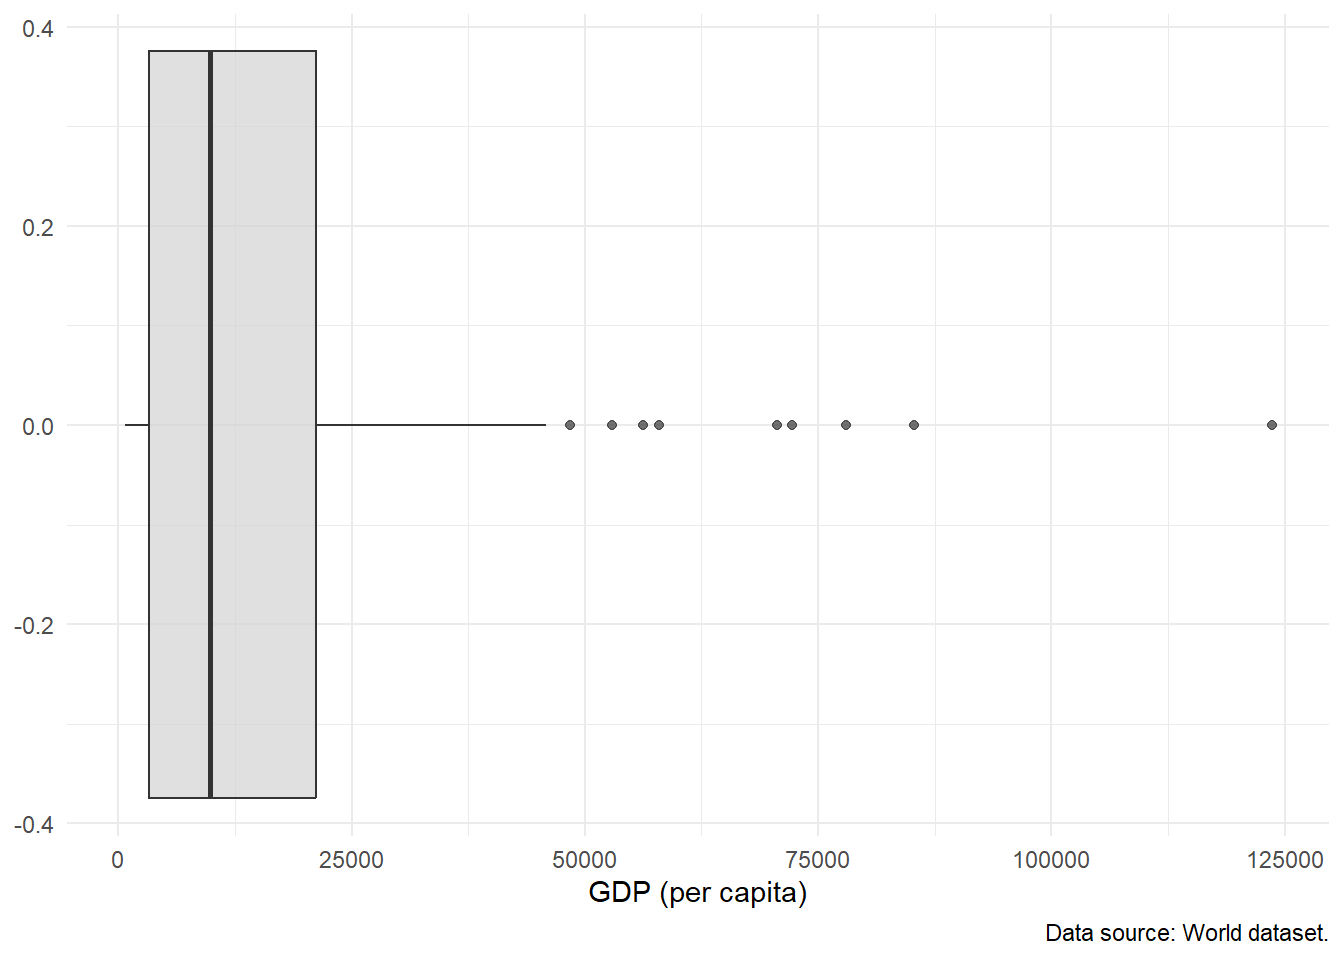
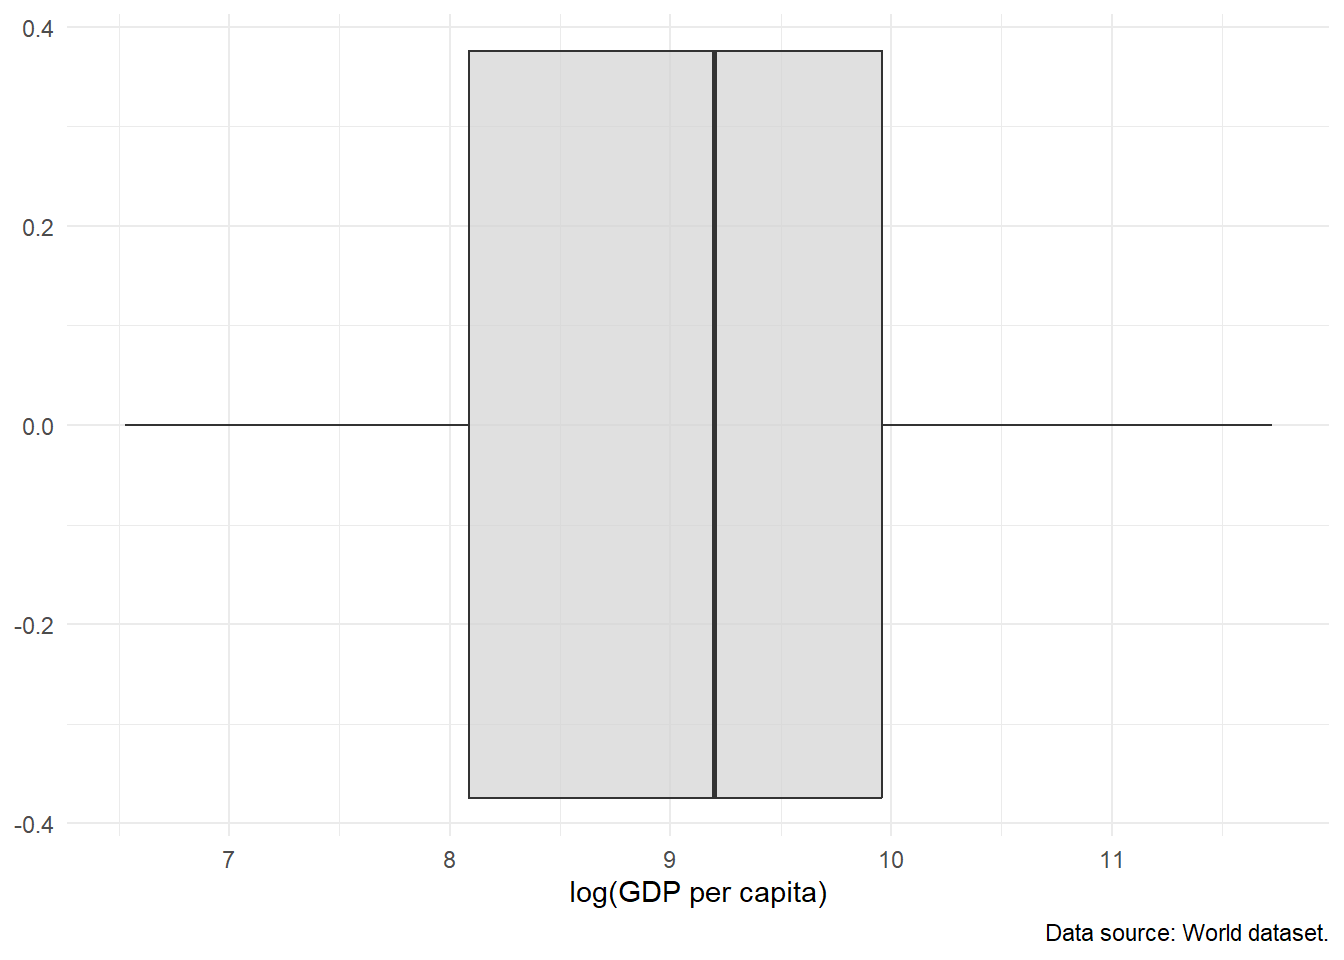
adjust code to include log transformations

diff --git a/_book/docs/08_summarizing_data.html b/_book/docs/08_summarizing_data.html
@@ -154,9 +154,6 @@ gtag('js', new Date());
 gtag('config', 'G-8Z2BLG3VEE', { 'anonymize_ip': true});
 </script>
 
-<script src="../site_libs/kePrint-0.0.1/kePrint.js"></script>
-<link href="../site_libs/lightable-0.0.1/lightable.css" rel="stylesheet">
-
   <script src="https://cdn.jsdelivr.net/npm/mathjax@3/es5/tex-chtml-full.js" type="text/javascript"></script>
 
 <link rel="stylesheet" href="styles.css">
@@ -342,13 +339,13 @@ gtag('config', 'G-8Z2BLG3VEE', { 'anonymize_ip': true});
 <div class="sourceCode cell-code" id="cb3"><pre class="sourceCode r code-with-copy"><code class="sourceCode r"><span id="cb3-1"><a href="#cb3-1" aria-hidden="true" tabindex="-1"></a>world <span class="sc">%&gt;%</span> <span class="co"># grab the world dataset, and do the following</span></span>
 <span id="cb3-2"><a href="#cb3-2" aria-hidden="true" tabindex="-1"></a>    <span class="fu">ggplot</span>() <span class="sc">+</span> <span class="co"># make a ggplot object</span></span>
 <span id="cb3-3"><a href="#cb3-3" aria-hidden="true" tabindex="-1"></a>    <span class="fu">geom_histogram</span>( <span class="co"># make a histogram</span></span>
-<span id="cb3-4"><a href="#cb3-4" aria-hidden="true" tabindex="-1"></a>        <span class="fu">aes</span>(<span class="at">x =</span> gdppc), <span class="co"># use the gdppc variable</span></span>
+<span id="cb3-4"><a href="#cb3-4" aria-hidden="true" tabindex="-1"></a>        <span class="fu">aes</span>(<span class="at">x =</span> <span class="fu">log</span>(gdppc)), <span class="co"># use the gdppc variable</span></span>
 <span id="cb3-5"><a href="#cb3-5" aria-hidden="true" tabindex="-1"></a>        <span class="at">fill =</span> <span class="st">"#D3D3D3"</span>, <span class="co"># fill the bars with light grey</span></span>
 <span id="cb3-6"><a href="#cb3-6" aria-hidden="true" tabindex="-1"></a>        <span class="at">color =</span> <span class="st">"#000000"</span> <span class="co"># make the outlines of the bars black</span></span>
 <span id="cb3-7"><a href="#cb3-7" aria-hidden="true" tabindex="-1"></a>    ) <span class="sc">+</span></span>
 <span id="cb3-8"><a href="#cb3-8" aria-hidden="true" tabindex="-1"></a>    <span class="fu">theme_minimal</span>() <span class="sc">+</span> <span class="co"># change the theme to be prettier</span></span>
 <span id="cb3-9"><a href="#cb3-9" aria-hidden="true" tabindex="-1"></a>    <span class="fu">labs</span>( <span class="co"># clean up the labels</span></span>
-<span id="cb3-10"><a href="#cb3-10" aria-hidden="true" tabindex="-1"></a>        <span class="at">x =</span> <span class="st">"GDP (Per Capita)"</span>, <span class="co"># change the x-axis label to this</span></span>
+<span id="cb3-10"><a href="#cb3-10" aria-hidden="true" tabindex="-1"></a>        <span class="at">x =</span> <span class="st">"log(GDP per capita)"</span>, <span class="co"># change the x-axis label to this</span></span>
 <span id="cb3-11"><a href="#cb3-11" aria-hidden="true" tabindex="-1"></a>        <span class="at">y =</span> <span class="st">"Count of countries"</span>, <span class="co"># change the y-axis label to this</span></span>
 <span id="cb3-12"><a href="#cb3-12" aria-hidden="true" tabindex="-1"></a>        <span class="at">captions =</span> <span class="st">"Data source: World dataset."</span> <span class="co"># add a caption</span></span>
 <span id="cb3-13"><a href="#cb3-13" aria-hidden="true" tabindex="-1"></a>    )</span></code><button title="Copy to Clipboard" class="code-copy-button"><i class="bi"></i></button></pre></div>
@@ -387,13 +384,13 @@ gtag('config', 'G-8Z2BLG3VEE', { 'anonymize_ip': true});
 <div class="sourceCode cell-code" id="cb6"><pre class="sourceCode r code-with-copy"><code class="sourceCode r"><span id="cb6-1"><a href="#cb6-1" aria-hidden="true" tabindex="-1"></a>world <span class="sc">%&gt;%</span> <span class="co"># grab the world dataset</span></span>
 <span id="cb6-2"><a href="#cb6-2" aria-hidden="true" tabindex="-1"></a>    <span class="fu">ggplot</span>() <span class="sc">+</span> <span class="co"># make a ggplot object</span></span>
 <span id="cb6-3"><a href="#cb6-3" aria-hidden="true" tabindex="-1"></a>    <span class="fu">geom_boxplot</span>( <span class="co"># make a geom_boxplot</span></span>
-<span id="cb6-4"><a href="#cb6-4" aria-hidden="true" tabindex="-1"></a>        <span class="fu">aes</span>(<span class="at">x =</span> gdppc), <span class="co"># using the gdppc variable</span></span>
+<span id="cb6-4"><a href="#cb6-4" aria-hidden="true" tabindex="-1"></a>        <span class="fu">aes</span>(<span class="at">x =</span> <span class="fu">log</span>(gdppc)), <span class="co"># using the gdppc variable</span></span>
 <span id="cb6-5"><a href="#cb6-5" aria-hidden="true" tabindex="-1"></a>        <span class="at">fill =</span> <span class="st">"#D3D3D3"</span>, <span class="co"># fill it with a light grey color</span></span>
 <span id="cb6-6"><a href="#cb6-6" aria-hidden="true" tabindex="-1"></a>        <span class="at">alpha =</span> <span class="fl">0.7</span> <span class="co"># don't make the color solid</span></span>
 <span id="cb6-7"><a href="#cb6-7" aria-hidden="true" tabindex="-1"></a>    ) <span class="sc">+</span></span>
 <span id="cb6-8"><a href="#cb6-8" aria-hidden="true" tabindex="-1"></a>    <span class="fu">theme_minimal</span>() <span class="sc">+</span> <span class="co"># use the minimal theme to look nicer</span></span>
 <span id="cb6-9"><a href="#cb6-9" aria-hidden="true" tabindex="-1"></a>    <span class="fu">labs</span>( <span class="co"># adjust the labels</span></span>
-<span id="cb6-10"><a href="#cb6-10" aria-hidden="true" tabindex="-1"></a>        <span class="at">x =</span> <span class="st">"GDP (per capita)"</span>, <span class="co"># change the x axis to this</span></span>
+<span id="cb6-10"><a href="#cb6-10" aria-hidden="true" tabindex="-1"></a>        <span class="at">x =</span> <span class="st">"log(GDP per capita)"</span>, <span class="co"># change the x axis to this</span></span>
 <span id="cb6-11"><a href="#cb6-11" aria-hidden="true" tabindex="-1"></a>        <span class="at">caption =</span> <span class="st">"Data source: World dataset."</span></span>
 <span id="cb6-12"><a href="#cb6-12" aria-hidden="true" tabindex="-1"></a>    )</span></code><button title="Copy to Clipboard" class="code-copy-button"><i class="bi"></i></button></pre></div>
 </div>
@@ -465,8 +462,9 @@ Note
 <p>One super nifty function that we can use is the <code>datasummary_skim()</code> function from the <code>modelsummary</code> package <span class="citation" data-cites="modelsummary">(<a href="references.html#ref-modelsummary" role="doc-biblioref">Arel-Bundock 2022</a>)</span>. What the modelsummary package does, is it can calculate these things, along with quite a few others as well.</p>
 <p>So, I am going to tell R to grab my <code>world</code> dataset object, and to apply the following functions to it – I do this with the <code>pipe</code> function (<code>%&gt;%</code>):</p>
 <ul>
-<li>With <code>dplyr</code>’s <span class="citation" data-cites="dplyr">(<a href="references.html#ref-dplyr" role="doc-biblioref">Wickham et al. 2023</a>)</span> <code>select()</code> function, I am going to <code>select()</code> the <code>gdppc</code> column</li>
-<li>With <code>dplyr</code>’s <span class="citation" data-cites="dplyr">(<a href="references.html#ref-dplyr" role="doc-biblioref">Wickham et al. 2023</a>)</span> <code>rename()</code> function, I am going to <code>rename()</code> the <code>gdppc</code> column to <code>GDP (per capita)</code></li>
+<li>With <code>dplyr</code>’s <span class="citation" data-cites="dplyr">(<a href="references.html#ref-dplyr" role="doc-biblioref">Wickham et al. 2023</a>)</span> <code>mutate()</code> function, I am going to transform the <code>gdppc</code> column to be the <code>log()</code> of it. This log transformation makes it a bit easier to read the numbers. I am going to store the result of this into a new column called <code>log_gdppc</code>.</li>
+<li>With <code>dplyr</code>’s <span class="citation" data-cites="dplyr">(<a href="references.html#ref-dplyr" role="doc-biblioref">Wickham et al. 2023</a>)</span> <code>select()</code> function, I am going to <code>select()</code> the <code>log_gdppc</code> column.</li>
+<li>With <code>dplyr</code>’s <span class="citation" data-cites="dplyr">(<a href="references.html#ref-dplyr" role="doc-biblioref">Wickham et al. 2023</a>)</span> <code>rename()</code> function, I am going to <code>rename()</code> the <code>log_gdppc</code> column to <code>log(GDP per capita)</code></li>
 </ul>
 <div class="callout-note callout callout-style-default callout-captioned">
 <div class="callout-header d-flex align-content-center">
@@ -489,64 +487,23 @@ Note
 </ul></li>
 </ul>
 <div class="cell">
-<div class="sourceCode cell-code" id="cb14"><pre class="sourceCode r code-with-copy"><code class="sourceCode r"><span id="cb14-1"><a href="#cb14-1" aria-hidden="true" tabindex="-1"></a>world <span class="sc">%&gt;%</span></span>
-<span id="cb14-2"><a href="#cb14-2" aria-hidden="true" tabindex="-1"></a>    <span class="fu">select</span>(gdppc) <span class="sc">%&gt;%</span></span>
-<span id="cb14-3"><a href="#cb14-3" aria-hidden="true" tabindex="-1"></a>    <span class="fu">rename</span>(<span class="st">`</span><span class="at">GDP (per capita)</span><span class="st">`</span> <span class="ot">=</span> gdppc) <span class="sc">%&gt;%</span></span>
-<span id="cb14-4"><a href="#cb14-4" aria-hidden="true" tabindex="-1"></a>    <span class="fu">datasummary_skim</span>(</span>
-<span id="cb14-5"><a href="#cb14-5" aria-hidden="true" tabindex="-1"></a>        <span class="at">notes =</span> <span class="st">"Data source: world dataset."</span>,</span>
-<span id="cb14-6"><a href="#cb14-6" aria-hidden="true" tabindex="-1"></a>        <span class="at">output =</span> <span class="st">"gdppc_summary.html"</span></span>
-<span id="cb14-7"><a href="#cb14-7" aria-hidden="true" tabindex="-1"></a>    )</span></code><button title="Copy to Clipboard" class="code-copy-button"><i class="bi"></i></button></pre></div>
+<div class="sourceCode cell-code" id="cb14"><pre class="sourceCode r code-with-copy"><code class="sourceCode r"><span id="cb14-1"><a href="#cb14-1" aria-hidden="true" tabindex="-1"></a>world <span class="sc">%&gt;%</span> <span class="co"># grab the world dataset</span></span>
+<span id="cb14-2"><a href="#cb14-2" aria-hidden="true" tabindex="-1"></a>    <span class="fu">mutate</span>( <span class="co"># change the values for a variable</span></span>
+<span id="cb14-3"><a href="#cb14-3" aria-hidden="true" tabindex="-1"></a>        <span class="at">log_gdppc =</span> <span class="fu">log</span>(gdppc) <span class="co"># take the log of gdppc and store it in new column called log_gdppc</span></span>
+<span id="cb14-4"><a href="#cb14-4" aria-hidden="true" tabindex="-1"></a>    ) <span class="sc">%&gt;%</span> </span>
+<span id="cb14-5"><a href="#cb14-5" aria-hidden="true" tabindex="-1"></a>    <span class="fu">select</span>( <span class="co"># grab a variable...</span></span>
+<span id="cb14-6"><a href="#cb14-6" aria-hidden="true" tabindex="-1"></a>        log_gdppc <span class="co">#... specifically the log_gdppc column, drop all the other columns</span></span>
+<span id="cb14-7"><a href="#cb14-7" aria-hidden="true" tabindex="-1"></a>    ) <span class="sc">%&gt;%</span> </span>
+<span id="cb14-8"><a href="#cb14-8" aria-hidden="true" tabindex="-1"></a>    <span class="fu">rename</span>( <span class="co"># rename columns</span></span>
+<span id="cb14-9"><a href="#cb14-9" aria-hidden="true" tabindex="-1"></a>        <span class="st">`</span><span class="at">log(GDP per capita)</span><span class="st">`</span> <span class="ot">=</span> log_gdppc <span class="co"># specifically rename log_gdppc to log(GDP per capita)</span></span>
+<span id="cb14-10"><a href="#cb14-10" aria-hidden="true" tabindex="-1"></a>    ) <span class="sc">%&gt;%</span></span>
+<span id="cb14-11"><a href="#cb14-11" aria-hidden="true" tabindex="-1"></a>    <span class="fu">datasummary_skim</span>( <span class="co"># make a table sumamrizing the variables</span></span>
+<span id="cb14-12"><a href="#cb14-12" aria-hidden="true" tabindex="-1"></a>        <span class="at">notes =</span> <span class="st">"Data source: world dataset."</span>, <span class="co"># add notes to bottom of table</span></span>
+<span id="cb14-13"><a href="#cb14-13" aria-hidden="true" tabindex="-1"></a>        <span class="at">output =</span> <span class="st">"gdppc_summary.html"</span> <span class="co"># store result to a html file called gdppc_summary.html</span></span>
+<span id="cb14-14"><a href="#cb14-14" aria-hidden="true" tabindex="-1"></a>    )</span></code><button title="Copy to Clipboard" class="code-copy-button"><i class="bi"></i></button></pre></div>
 </div>
-<div class="cell">
-<div class="cell-output-display">
-<div id="tbl-gdppc-table" class="anchored">
+<div id="tbl-gdppc-table" class="cell tbl-parent quarto-layout-panel anchored" data-tbl-cap="Descriptive statistics of countries' GDP (per capita)">
 
-<table style="NAborder-bottom: 0; width: auto !important; margin-left: auto; margin-right: auto;" class="table"><caption>Table&nbsp;9.1:  Descriptive statistics of countries’ GDP (per capita) </caption>
- <thead>
-  <tr>
-   <th style="text-align:left;">   </th>
-   <th style="text-align:right;"> Unique (#) </th>
-   <th style="text-align:right;"> Missing (%) </th>
-   <th style="text-align:right;"> Mean </th>
-   <th style="text-align:right;"> SD </th>
-   <th style="text-align:right;"> Min </th>
-   <th style="text-align:right;"> Median </th>
-   <th style="text-align:right;"> Max </th>
-   <th style="text-align:right;">    </th>
-  </tr>
- </thead>
-<tbody>
-  <tr>
-   <td style="text-align:left;"> GDP (per capita) </td>
-   <td style="text-align:right;"> 177 </td>
-   <td style="text-align:right;"> 3 </td>
-   <td style="text-align:right;"> 16326.8 </td>
-   <td style="text-align:right;"> 18456.6 </td>
-   <td style="text-align:right;"> 683.8 </td>
-   <td style="text-align:right;"> 9863.2 </td>
-   <td style="text-align:right;"> 123593.0 </td>
-   <td style="text-align:right;">  <svg xmlns="http://www.w3.org/2000/svg" xlink="http://www.w3.org/1999/xlink" class="svglite" width="48.00pt" height="12.00pt" viewbox="0 0 48.00 12.00"><defs><style type="text/css">
-    .svglite line, .svglite polyline, .svglite polygon, .svglite path, .svglite rect, .svglite circle {
-      fill: none;
-      stroke: #000000;
-      stroke-linecap: round;
-      stroke-linejoin: round;
-      stroke-miterlimit: 10.00;
-    }
-    .svglite text {
-      white-space: pre;
-    }
-  </style></defs><rect width="100%" height="100%" style="stroke: none; fill: none;"></rect><defs><clippath id="cpMC4wMHw0OC4wMHwwLjAwfDEyLjAw"><rect x="0.00" y="0.00" width="48.00" height="12.00"></rect></clippath></defs><g clip-path="url(#cpMC4wMHw0OC4wMHwwLjAwfDEyLjAw)">
-</g><defs><clippath id="cpMC4wMHw0OC4wMHwyLjg4fDEyLjAw"><rect x="0.00" y="2.88" width="48.00" height="9.12"></rect></clippath></defs><g clip-path="url(#cpMC4wMHw0OC4wMHwyLjg4fDEyLjAw)"><rect x="1.53" y="3.22" width="3.62" height="8.44" style="stroke-width: 0.38; fill: #000000;"></rect><rect x="5.15" y="8.15" width="3.62" height="3.51" style="stroke-width: 0.38; fill: #000000;"></rect><rect x="8.76" y="10.05" width="3.62" height="1.61" style="stroke-width: 0.38; fill: #000000;"></rect><rect x="12.38" y="10.33" width="3.62" height="1.33" style="stroke-width: 0.38; fill: #000000;"></rect><rect x="15.99" y="10.62" width="3.62" height="1.04" style="stroke-width: 0.38; fill: #000000;"></rect><rect x="19.61" y="11.38" width="3.62" height="0.28" style="stroke-width: 0.38; fill: #000000;"></rect><rect x="23.23" y="11.66" width="3.62" height="0.00" style="stroke-width: 0.38; fill: #000000;"></rect><rect x="26.84" y="11.38" width="3.62" height="0.28" style="stroke-width: 0.38; fill: #000000;"></rect><rect x="30.46" y="11.57" width="3.62" height="0.095" style="stroke-width: 0.38; fill: #000000;"></rect><rect x="34.07" y="11.66" width="3.62" height="0.00" style="stroke-width: 0.38; fill: #000000;"></rect><rect x="37.69" y="11.66" width="3.62" height="0.00" style="stroke-width: 0.38; fill: #000000;"></rect><rect x="41.31" y="11.66" width="3.62" height="0.00" style="stroke-width: 0.38; fill: #000000;"></rect><rect x="44.92" y="11.57" width="3.62" height="0.095" style="stroke-width: 0.38; fill: #000000;"></rect></g></svg>
-</td>
-  </tr>
-</tbody>
-<tfoot><tr><td style="padding: 0; " colspan="100%">
-<sup></sup> Data source: world dataset.</td></tr></tfoot>
-</table>
-
-</div>
-</div>
 </div>
 <p>It gives me a whole bunch of things. Including a (albeit small) histogram in the last column. Nice!</p>
 </section>
